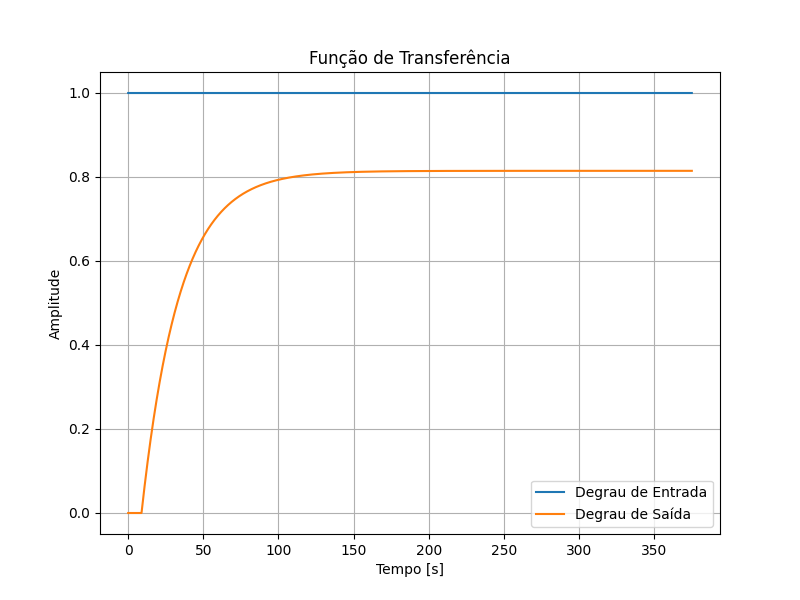
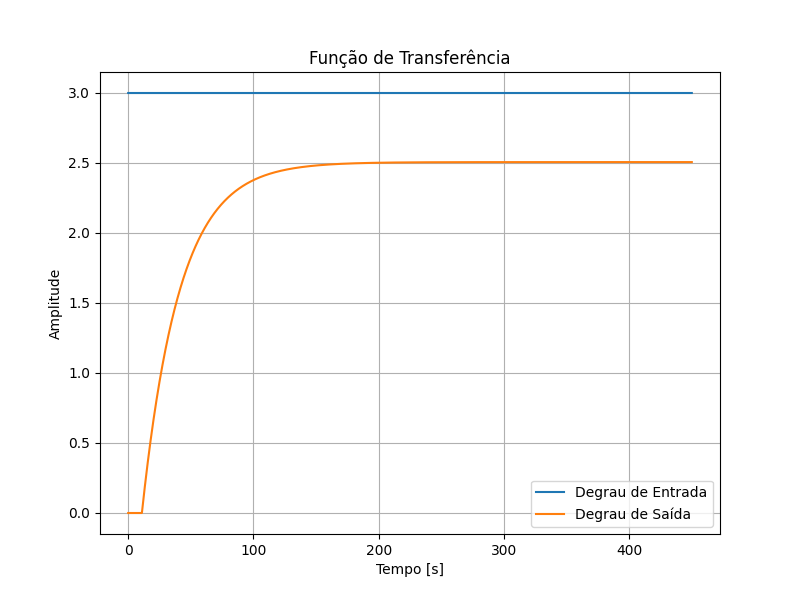
V2.1

diff --git a/main.py b/main.py
@@ -8,7 +8,7 @@ import control as ctrl
 save_dir = 'graphics/'
 
 # Carregar dados do arquivo .mat
-mat = loadmat('dataset/Dataset_Grupo1.mat')
+mat = loadmat('dataset/Dataset_Grupo3.mat')
 struct_degrau = mat.get('TARGET_DATA____ProjetoC213_Degrau')
 degrau = struct_degrau[:, 1].tolist()  # vetor coluna
 tempo = struct_degrau[:, 0].tolist()  # vetor coluna
